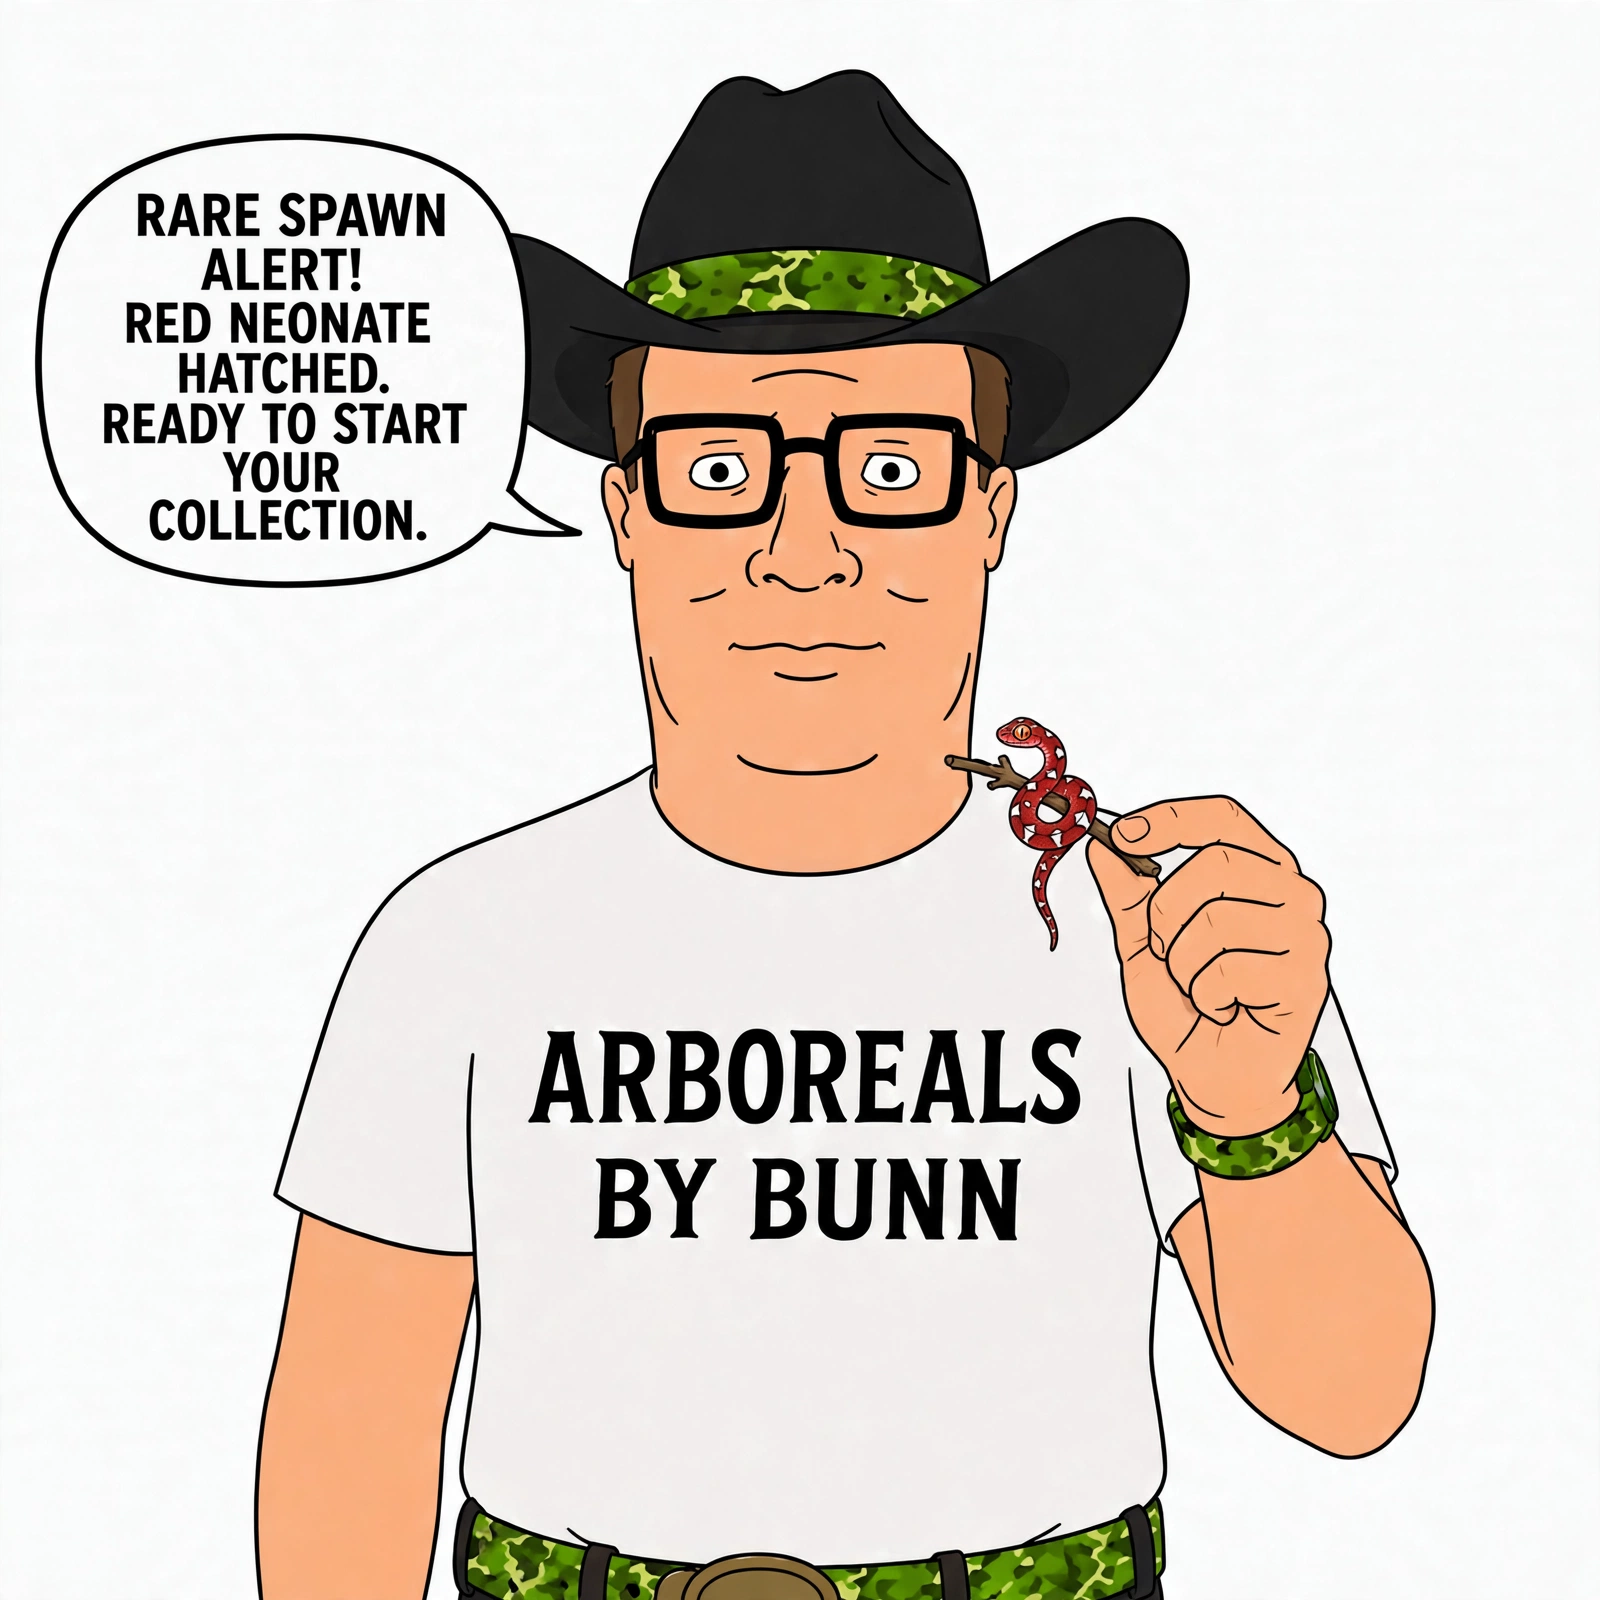
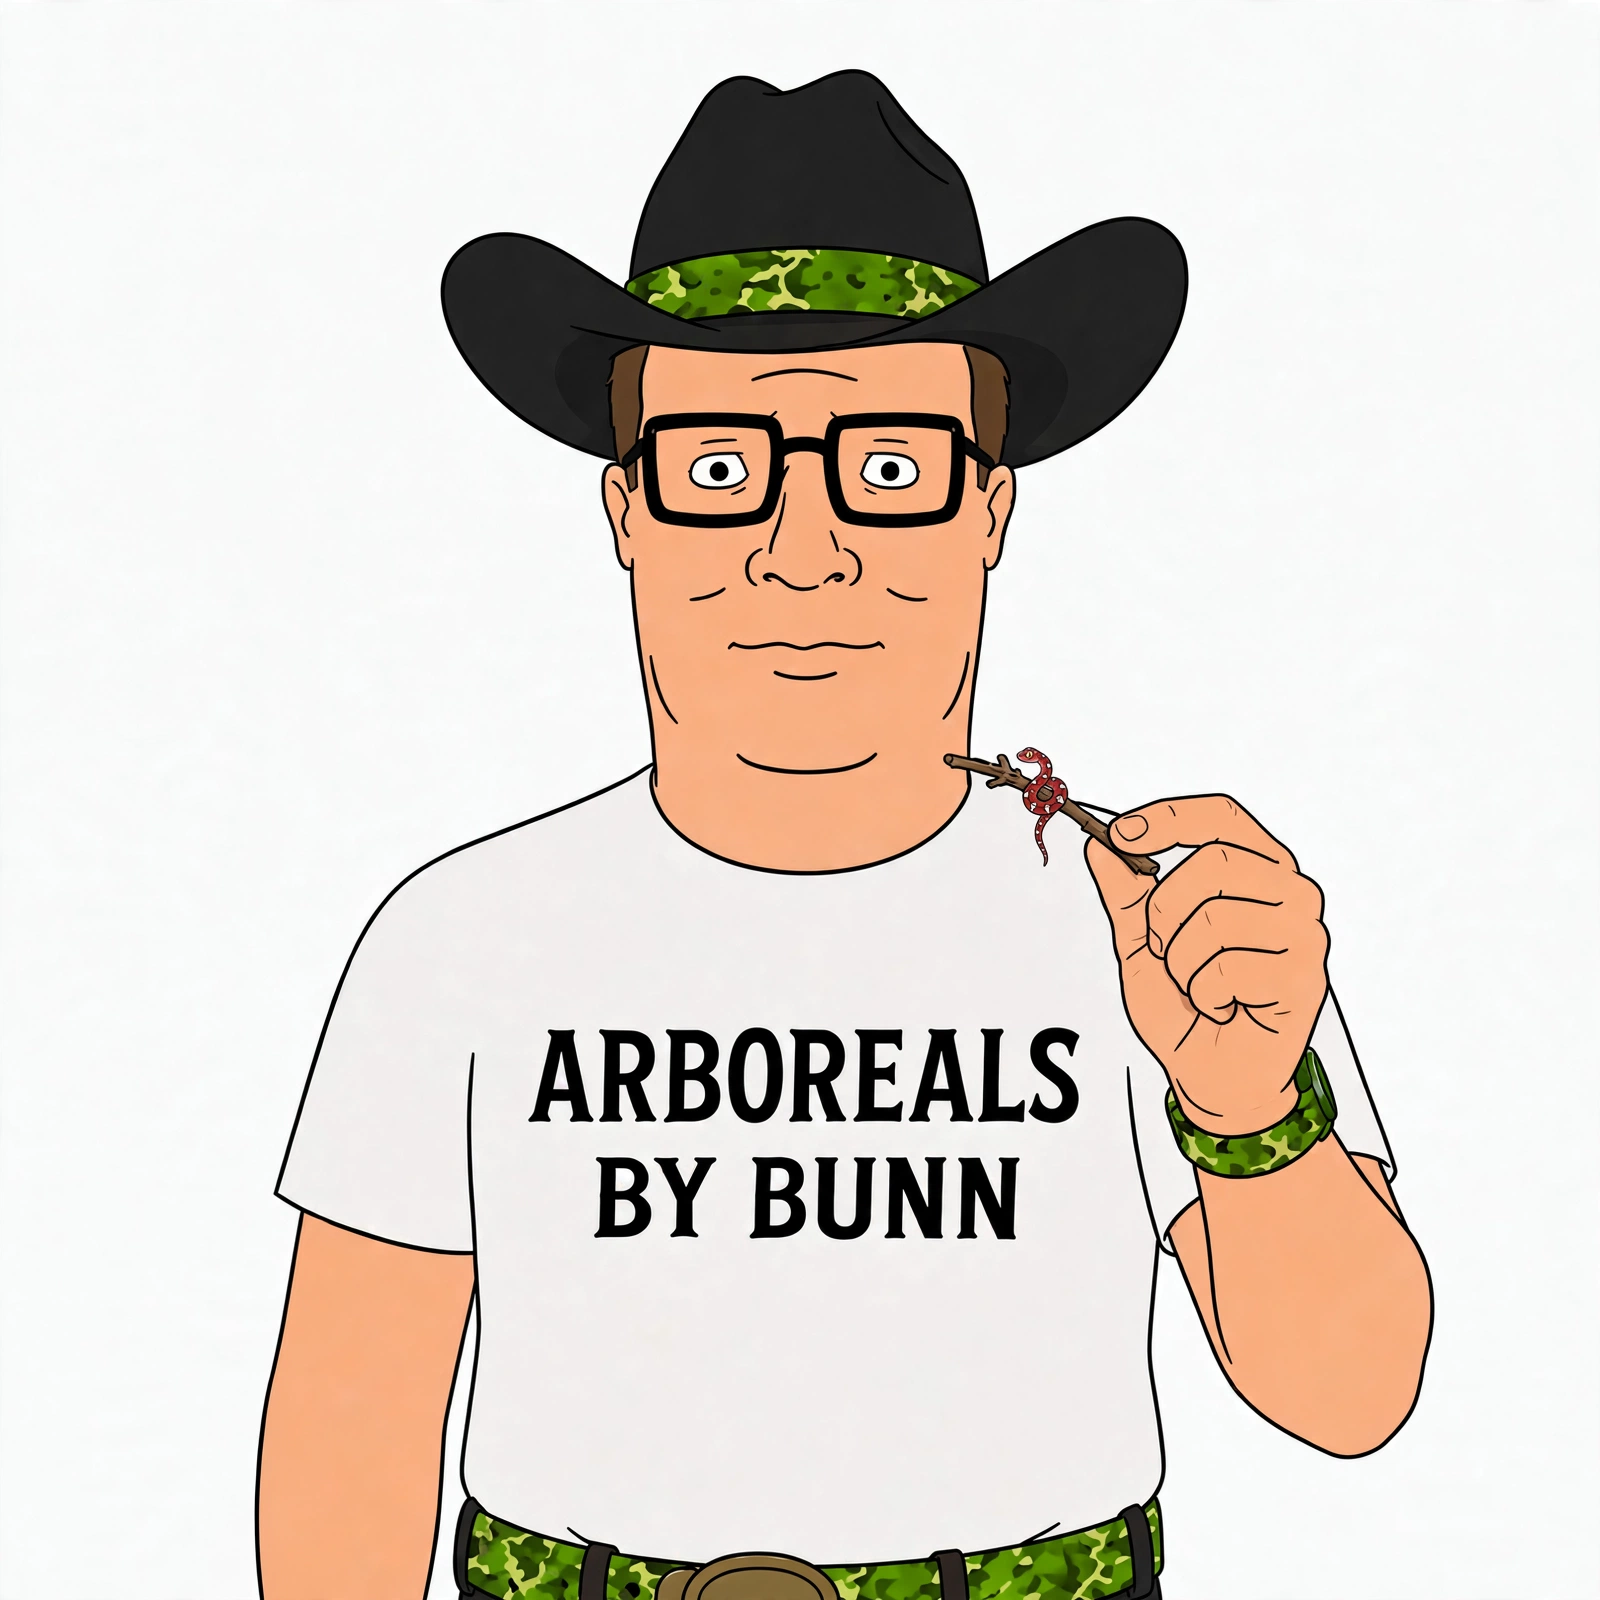
Arboreal Keeper ad hero: no speech bubble, minuscule neonate hatchling
Also ships QA bug fixes that were pending in the working tree:
- Stamp updatedAt on saves so record edits (raises, renames) persist
- Enclosure toasts use display labels (Chondro Dojo 2 Stack naming)
- Home status waits for load before rendering colony counts
- Replace window.prompt reset with inline confirm form (fixes unresponsive reset)
- Player Market falls back to localStorage so guests see real cash/capacity

diff --git a/src/components/ChondroBreederGameV3.tsx b/src/components/ChondroBreederGameV3.tsx
@@ -746,6 +746,8 @@ function CollapsibleGameSection({
 
 export function ChondroBreederGameV3({ screen = "all" }: { screen?: BreederGameScreen } = {}) {
   const [resetMenuOpen, setResetMenuOpen] = useState(false);
+  const [resetArmed, setResetArmed] = useState(false);
+  const [resetConfirmText, setResetConfirmText] = useState("");
   const [started, setStarted] = useState(false);
   const [cash, setCash] = useState(STARTING_CASH);
   const [colony, setColony] = useState<Snake[]>([]);
@@ -1513,11 +1515,12 @@ export function ChondroBreederGameV3({ screen = "all" }: { screen?: BreederGameS
   }
 
   function resetGame() {
-    const confirmation = window.prompt(
-      "This permanently erases your Arboreal Keeper save on this device and account.\n\nType RESET ARBOREAL KEEPER exactly to continue.",
-    );
-    if (confirmation !== "RESET ARBOREAL KEEPER") return;
+    // The inline form already collected the exact confirmation phrase, so this
+    // just performs the reset. (A native window.prompt was used here before;
+    // it is unreliable in embedded/automated browsers and poor UX.)
     setResetMenuOpen(false);
+    setResetArmed(false);
+    setResetConfirmText("");
     setStarted(false);
     setCash(STARTING_CASH);
     setColony([]);
@@ -1600,7 +1603,10 @@ export function ChondroBreederGameV3({ screen = "all" }: { screen?: BreederGameS
         <div className="relative">
           <button
             type="button"
-            onClick={() => setResetMenuOpen((value) => !value)}
+            onClick={() => {
+              if (resetMenuOpen) { setResetArmed(false); setResetConfirmText(""); }
+              setResetMenuOpen(!resetMenuOpen);
+            }}
             aria-expanded={resetMenuOpen}
             aria-haspopup="menu"
             aria-label="Open game options"
@@ -1614,14 +1620,47 @@ export function ChondroBreederGameV3({ screen = "all" }: { screen?: BreederGameS
               <div className="text-[9px] font-black uppercase tracking-[.14em] text-white/30">Game options</div>
               <div className="mt-2 text-sm font-semibold text-white/68">Save controls</div>
               <p className="mt-1 text-xs leading-5 text-white/34">Reset is intentionally buried here because it permanently clears your breeder progress.</p>
-              <button
-                type="button"
-                role="menuitem"
-                onClick={resetGame}
-                className="mt-3 rounded-xl border border-red-300/15 bg-red-300/[.025] px-3 py-2 text-[10px] font-bold text-red-100/55 transition hover:border-red-300/28 hover:text-red-100/78"
-              >
-                Reset breeder save…
-              </button>
+              {resetArmed ? (
+                <div className="mt-3 rounded-xl border border-red-300/15 bg-red-300/[.03] p-3">
+                  <label htmlFor="reset-confirm-input" className="text-[10px] font-bold uppercase tracking-[.08em] text-red-100/60">
+                    Type RESET ARBOREAL KEEPER to erase your save
+                  </label>
+                  <input
+                    id="reset-confirm-input"
+                    value={resetConfirmText}
+                    onChange={(event) => setResetConfirmText(event.target.value)}
+                    placeholder="RESET ARBOREAL KEEPER"
+                    autoComplete="off"
+                    className="mt-2 w-full rounded-lg border border-red-300/20 bg-black/30 px-3 py-2 text-xs text-white/80 outline-none placeholder:text-white/25 focus:border-red-300/40"
+                  />
+                  <div className="mt-2 flex gap-2">
+                    <button
+                      type="button"
+                      disabled={resetConfirmText !== "RESET ARBOREAL KEEPER"}
+                      onClick={resetGame}
+                      className="rounded-xl border border-red-300/25 bg-red-300/[.08] px-3 py-2 text-[10px] font-bold text-red-100/80 transition hover:bg-red-300/[.14] disabled:cursor-not-allowed disabled:opacity-35"
+                    >
+                      Erase my save
+                    </button>
+                    <button
+                      type="button"
+                      onClick={() => { setResetArmed(false); setResetConfirmText(""); }}
+                      className="rounded-xl border border-white/[.08] px-3 py-2 text-[10px] font-bold text-white/50 transition hover:text-white/75"
+                    >
+                      Cancel
+                    </button>
+                  </div>
+                </div>
+              ) : (
+                <button
+                  type="button"
+                  role="menuitem"
+                  onClick={() => setResetArmed(true)}
+                  className="mt-3 rounded-xl border border-red-300/15 bg-red-300/[.025] px-3 py-2 text-[10px] font-bold text-red-100/55 transition hover:border-red-300/28 hover:text-red-100/78"
+                >
+                  Reset breeder save…
+                </button>
+              )}
             </div>
           ) : null}
         </div>

diff --git a/src/components/ChondroPlayerMarket.tsx b/src/components/ChondroPlayerMarket.tsx
@@ -92,7 +92,23 @@ export function ChondroPlayerMarket() {
       const market = await marketResponse.json();
       const saved = await saveResponse.json();
       if (marketResponse.ok) setListings(Array.isArray(market.listings) ? market.listings : []);
-      if (saveResponse.ok) setSave(saved.save?.state ?? {});
+      if (saveResponse.ok) {
+        const apiState = saved.save?.state;
+        if (apiState && typeof apiState === "object" && !Array.isArray(apiState)) {
+          setSave(apiState as SaveState);
+        } else {
+          // Guests have no cloud save: the API returns no state, but the
+          // player's cash/colony live in localStorage. Fall back to it so the
+          // panel shows real values instead of $0 cash and 0 open spaces.
+          try {
+            const raw = window.localStorage.getItem(LOCAL_SAVE_KEY);
+            const parsed: unknown = raw ? JSON.parse(raw) : null;
+            if (parsed && typeof parsed === "object" && !Array.isArray(parsed)) {
+              setSave(parsed as SaveState);
+            }
+          } catch {}
+        }
+      }
       if (marketResponse.status === 401) setStatus("Sign in to browse and buy from the shared player market.");
     } catch {
       setStatus("The player market could not be refreshed.");

diff --git a/src/components/ChondroAnimalRecordActions.tsx b/src/components/ChondroAnimalRecordActions.tsx
@@ -68,12 +68,17 @@ async function loadSave() {
 }
 
 async function persistSave(state: SaveState, authenticated: boolean) {
-  try { window.localStorage.setItem(LOCAL_SAVE_KEY, JSON.stringify(state)); } catch {}
+  // Stamp updatedAt so the core game screen adopts this write through its
+  // save-change listener instead of treating it as stale and overwriting it
+  // with its own in-memory state (which silently reverted raises, renames,
+  // and other record edits).
+  const stamped = { ...state, updatedAt: Date.now() };
+  try { window.localStorage.setItem(LOCAL_SAVE_KEY, JSON.stringify(stamped)); } catch {}
   if (authenticated) {
     const response = await fetch("/api/hatchery/chondro-breeder/save", {
       method: "PUT",
       headers: { "Content-Type": "application/json" },
-      body: JSON.stringify(state),
+      body: JSON.stringify(stamped),
     });
     if (!response.ok) throw new Error("Cloud save failed");
   }

diff --git a/src/components/ChondroBreederHomeStatus.tsx b/src/components/ChondroBreederHomeStatus.tsx
@@ -58,6 +58,7 @@ function stageLabel(stage?: string) {
 
 export function ChondroBreederHomeStatus({ onOpen }: { onOpen: (view: CoreView) => void }) {
   const [save, setSave] = useState<Save>({});
+  const [loaded, setLoaded] = useState(false);
   const [market, setMarket] = useState<MarketPayload>({});
   const [conservation, setConservation] = useState<ConservationPayload>({});
   const [now, setNow] = useState(0);
@@ -72,6 +73,7 @@ export function ChondroBreederHomeStatus({ onOpen }: { onOpen: (view: CoreView) 
       ]);
       if (!active) return;
       if (saveState.state) setSave(saveState.state as Save);
+      setLoaded(true);
       if (marketResult && marketResult.ok) setMarket(await marketResult.json());
       if (conservationResult && conservationResult.ok) setConservation(await conservationResult.json());
     }

diff --git a/src/components/ChondroBreederExpandedShop.tsx b/src/components/ChondroBreederExpandedShop.tsx
@@ -563,11 +563,11 @@ export function ChondroBreederExpandedShop() {
       },
     };
     setBusy(`enclosure:${type}`);
-    setStatus(`Buying ${type}…`);
+    setStatus(`Buying ${enclosureDisplay[type].label}…`);
     try {
       await persistStandaloneShopSave(next, authenticated);
       setSave(next);
-      setStatus(`${type} purchased. Your snake capacity increased by ${type === "Chondro Dojo Bin" ? 2 : 1}.`);
+      setStatus(`${enclosureDisplay[type].label} purchased. Your snake capacity increased by ${type === "Chondro Dojo Bin" ? 2 : 1}.`);
     } catch {
       setStatus("That enclosure purchase could not be saved.");
     } finally {
